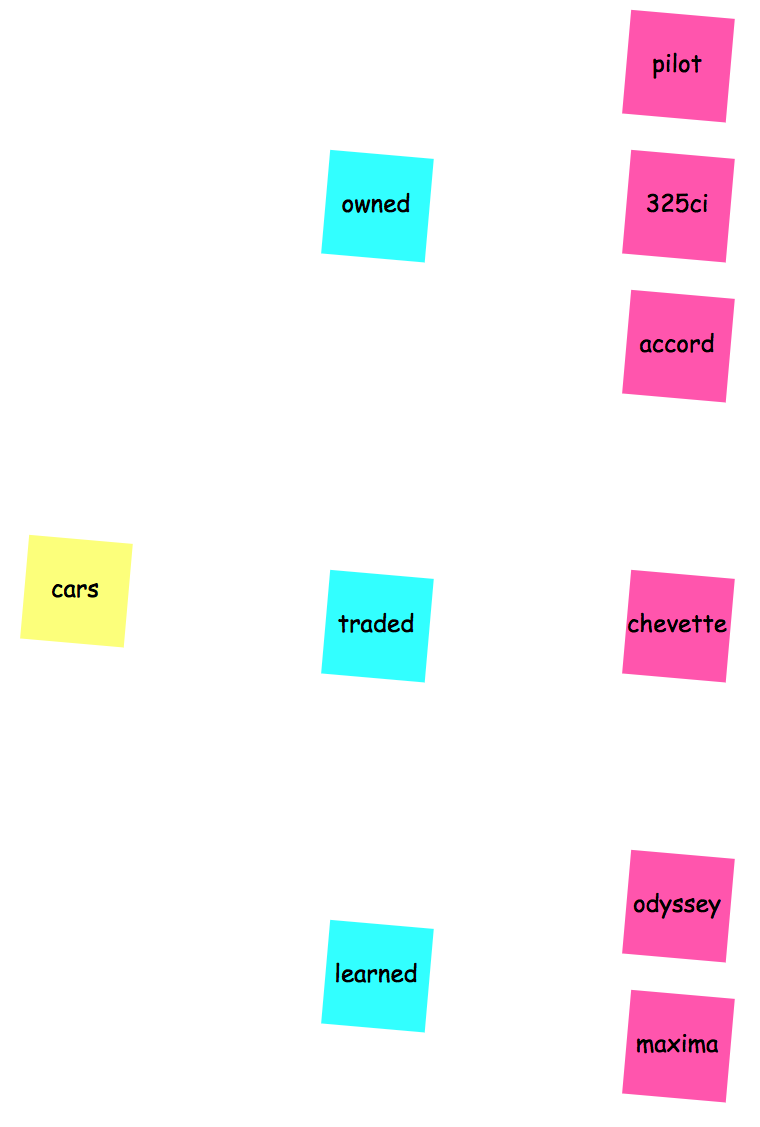
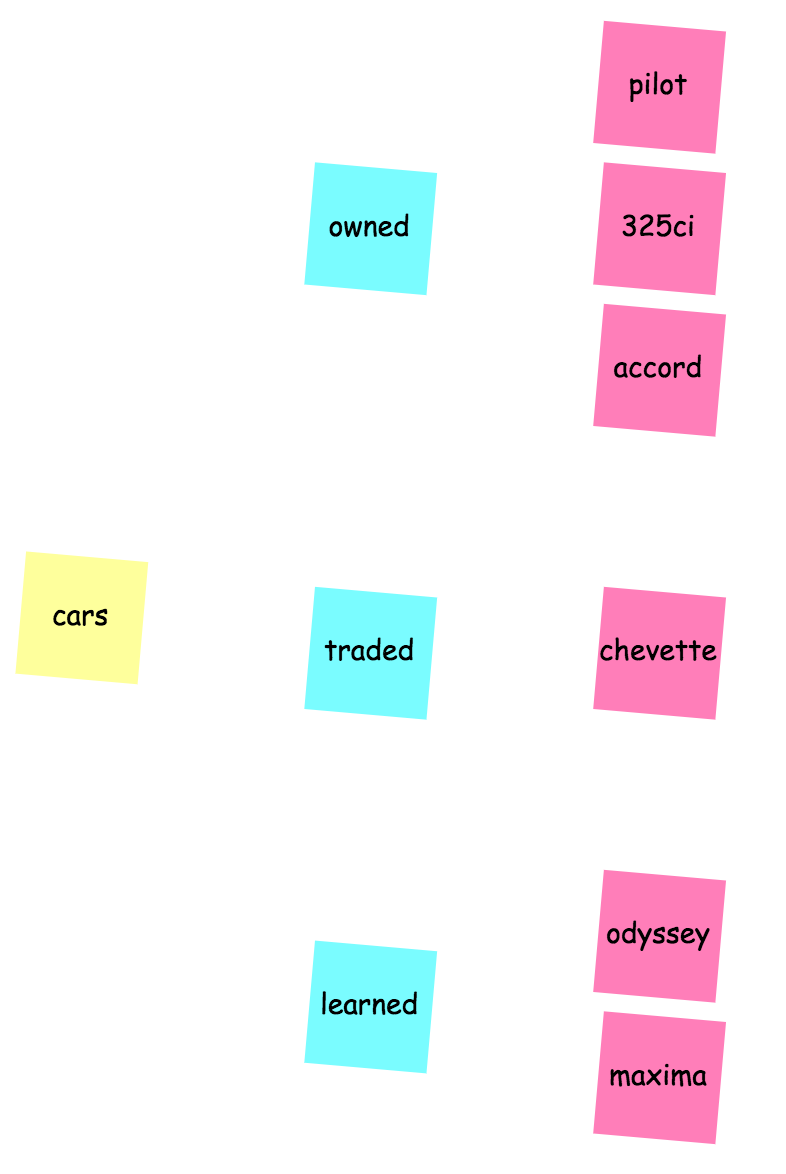
unconf prep (all good)

diff --git a/unconf/hierarchy.html b/unconf/hierarchy.html
@@ -136,7 +136,7 @@
 class: center, middle, white
 background-image: url(images/twisty-tree.jpg)
 
-.context-footer[d3-Unconf | 2017 | David Richards]
+.context-footer[d3-Unconf 2017 | David Richards | denjn5.github.io/unconf/hierarchy.html]
 
 # Visualizing<br>Hierarchical<br>Data in D3<br>_Efficiently_
 data is central<br>
@@ -401,7 +401,7 @@ _Goal_: When we're done, you'll have ~6 items divided into ~3 categories all wri
 # My Sticky Notes & JSON
 
 .left-column[
-<img width="300" src="images/cars-sticky-notes.png" />
+<img width="325" src="images/cars-sticky-notes.png" />
 ]
 
 .right-column[
@@ -432,8 +432,9 @@ _Goal_: When we're done, you'll have ~6 items divided into ~3 categories all wri
 ---
 
 .context[<iframe width="175" height="125" frameborder="0" src="viz/tree-icon.html"></iframe>]
+.context-footer[[bl.ocks.org/denjn5](https://bl.ocks.org/denjn5)]
 
-# Tree in 75 Lines (Part 1)
+# Tree in 62 Lines (Part 1)
 
 
 ``` html
@@ -442,20 +443,18 @@ _Goal_: When we're done, you'll have ~6 items divided into ~3 categories all wri
 </svg>
 
 <script>
-    var vWidth = 175;
-    var vHeight = 125;
+    var vWidth = 300;
+    var vHeight = 200;
 
     // Prepare our physical space
     var g = d3.select('svg').attr('width', vWidth).attr('height', vHeight)
-        .select('g').attr('transform', 'translate(7,0)');
+        .select('g').attr('transform', 'translate(20,20)');
 
-    // Declare d3 layout
-    var vLayout = d3.tree().size([vHeight, vWidth * 0.6]);
-
-    // Get the data from our JSON file
-    d3.json('data-car.json', function(error, vData) {
+    // Get the data from our CSV file
+    d3.json('data.json', function(error, vData) {
         if (error) throw error;
-        drawTree(vData);
+
+        drawViz(vData);
     });
 </script>
 ```
@@ -466,16 +465,18 @@ _Goal_: When we're done, you'll have ~6 items divided into ~3 categories all wri
 ---
 
 .context[<iframe width="175" height="125" frameborder="0" src="viz/tree-icon.html"></iframe>]
+.context-footer[[bl.ocks.org/denjn5](https://bl.ocks.org/denjn5)]
 
-# Tree in 75 Lines (Part 2)
-
+# Tree in 62 Lines (Part 2)
 
 ``` html
 <script>
-    // Draw our sunburst
-    function drawTree(data) {
+    function drawViz(vData) {
+        // Declare d3 layout
+        var vLayout = d3.tree().size([vHeight * 0.9, vWidth * 0.8]);
+
         // Layout + Data
-        var vRoot = d3.hierarchy(data);
+        var vRoot = d3.hierarchy(vData);
         var vNodes = vRoot.descendants();
         var vLinks = vLayout(vRoot).links();
 
@@ -486,19 +487,11 @@ _Goal_: When we're done, you'll have ~6 items divided into ~3 categories all wri
             .y(function(d) { return d.x; }));
 
         g.selectAll('circle').data(vNodes).enter().append('circle')
-            .attr('transform', function (d) {
-                return 'translate(' + d.y + ',' + d.x + ')'; });
-
-        g.selectAll('text').data(vNodes).enter().append('text')
-            .attr('transform', function (d) {
-                return 'translate(' + (d.y + 7) + ','
-                    + (d.x + (d.children ? -5 : 3)) + ')'; })
-            .text(function(d) { return d.data.id }).style('opacity', 0)
-            .transition().duration(1000).style('opacity', 1);
+            .style('r', 10)
+            .attr('transform', function (d) { return 'translate(' + d.y + ',' + d.x + ')'; });
     }
 </script>
 ```
-
 
 
 <!-- #################################### -->
@@ -553,6 +546,7 @@ __Think links!__ Start with the _root_ / _topic_ node. Then branch out to _categ
 ---
 
 .context[`d3.stratify()(myData);`]
+.context-footer[[bl.ocks.org/denjn5](https://bl.ocks.org/denjn5)]
 
 .left-column[
 
@@ -628,7 +622,6 @@ Changes:
 ---
 
 .context[`d3.stratify()(myData);`]
-.context-footer[*We focus on CSV because it simplifies our dataset syntax.]
 
 # Columns have Different Names?
 
@@ -643,21 +636,6 @@ homer,simpsons
 bart,marge
 ...
 ```
-
-
-<br>
-.small.gray[
-__NOTE: Not Just for CSV__<br>
-d3.stratify() works with any _tabular_ shaped data, including JSON.*
-```
-var vJSONData = [
-  {"emp": "simpsons", "mgr": null},
-  {"emp": "marge", "mgr": "simpsons" },
-  {"emp": "homer", "mgr": "simpsons" },
-  {"emp": "bart", "mgr": "marge" }
-];
-```
-]
 
 ]
 
@@ -715,7 +693,6 @@ Options
 ---
 
 .context[`d3.stratify()(myData);`]
-.context-footer[For viz's that need size, add that as a column in your data, but refer to it as `d.data.size` now.]
 
 # Want to Add Metadata?
 
@@ -752,9 +729,27 @@ g.selectAll('circle').data(vNodes).enter().append('circle')
         return 'translate(' + d.y + ',' + d.x + ')'; });
 ```
 
+---
 
-???
+.context[`d3.stratify()(myData);`]
 
+# Keep in Mind
+
+
+__For viz's that need size,__ add that as a column in your data, but refer to it as `d.data.size` now.
+<br>&nbsp;<br>
+
+
+
+__d3.stratify() works for tabular data from the range of d3 data helpers__
+``` json
+var vJSONData = [
+  {"emp": "simpsons", "mgr": null},
+  {"emp": "marge", "mgr": "simpsons" },
+  {"emp": "homer", "mgr": "simpsons" },
+  {"emp": "bart", "mgr": "marge" }
+];
+```
 
 
 <!-- #################################### -->
@@ -844,7 +839,7 @@ _API Documents & Blocks_
 
 _Hierarchical Tutorials_
 * [d3indepth.com/layouts/](http://d3indepth.com/layouts/) - Peter Cook's D3 in Depth Layouts
-* [denjn5.github.io/unconf/hierarchies-in-d3.html](https://denjn5.github.io/unconf/hierarchies-in-d3.html) - This presentation
+* [denjn5.github.io/unconf/hierarchy.html](https://denjn5.github.io/unconf/hierarchy.html) - This presentation
 
 _David Richards (me)_
 * [denjn5.github.io/](https://denjn5.github.io/) - Sunbursts, Line-by-line
